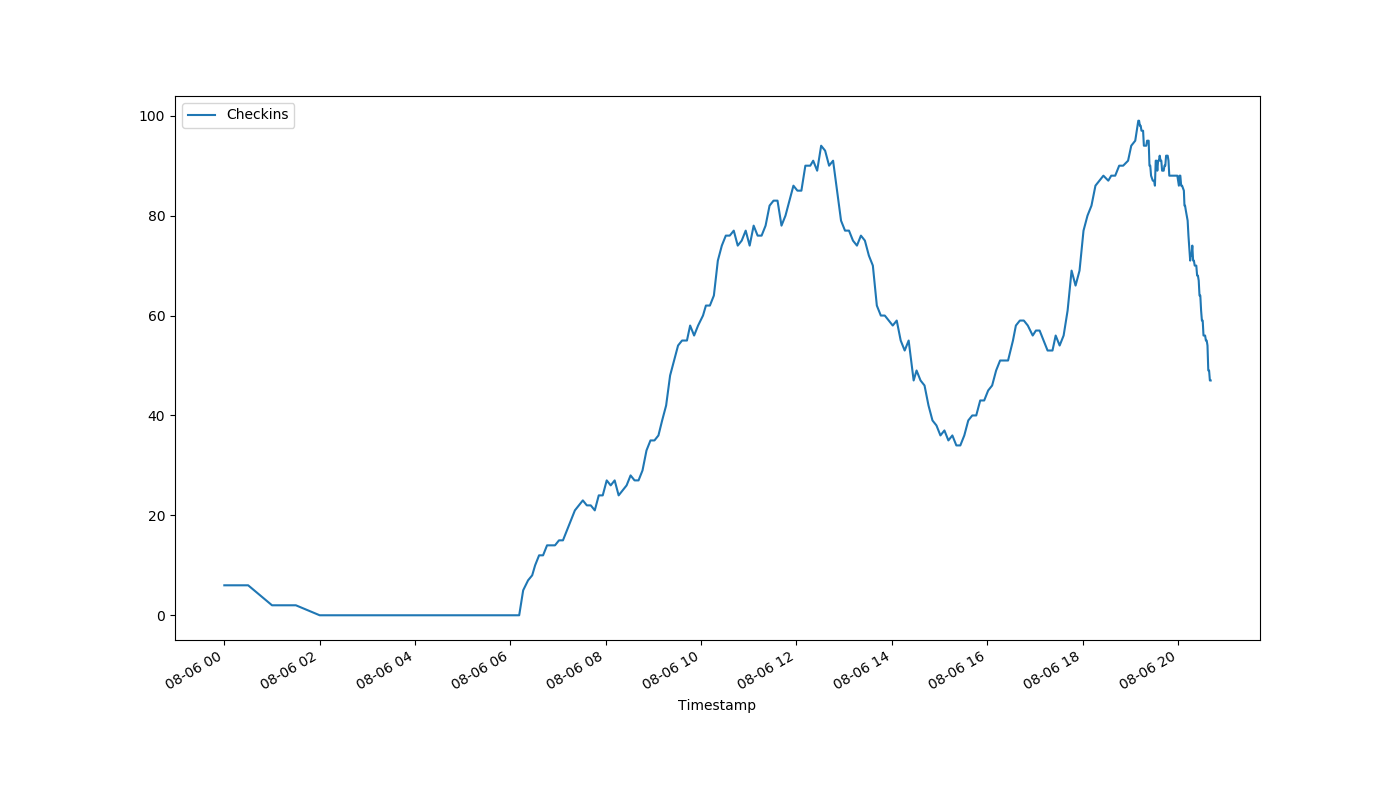
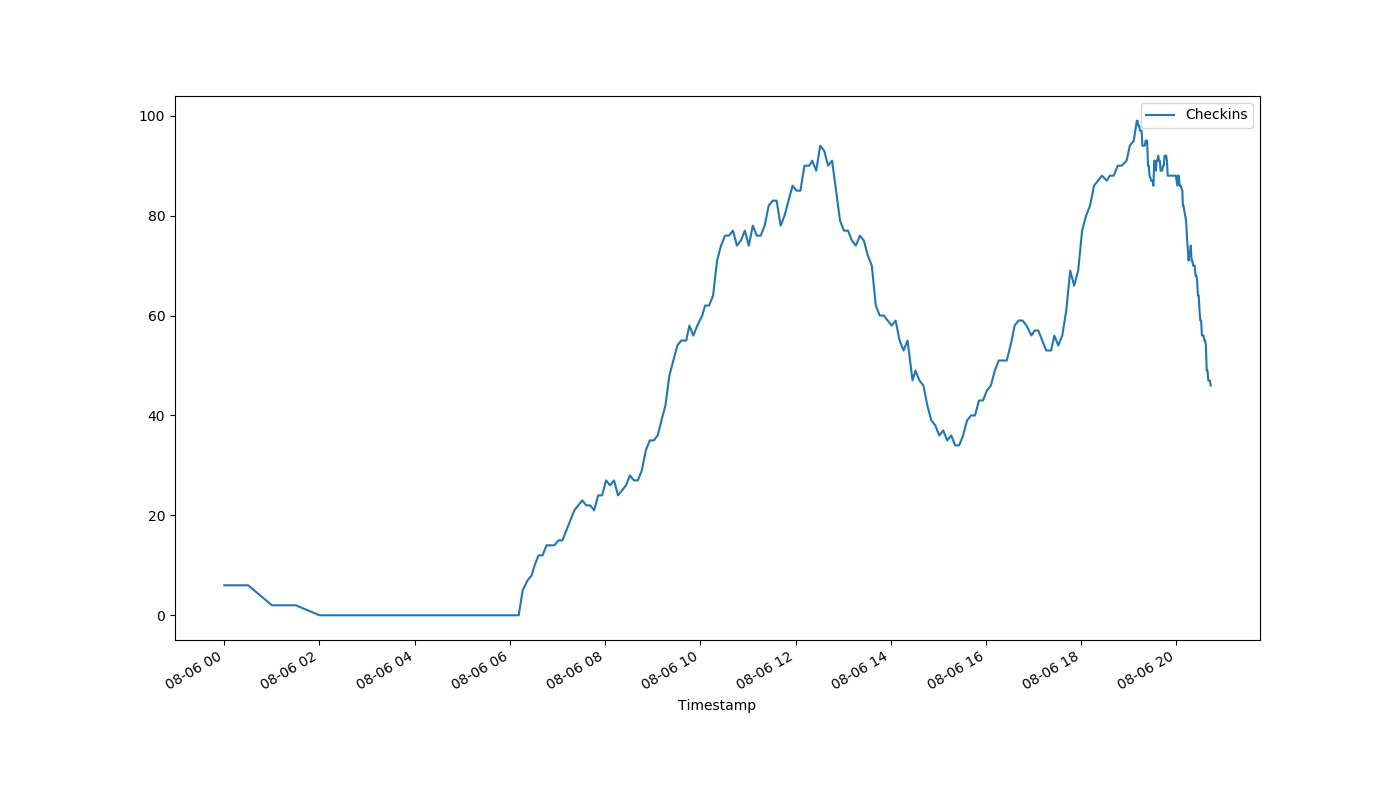
auto-Aug-06-20:43:48

diff --git a/index.html b/index.html
@@ -1,1 +1,1 @@
-<!DOCTYPE html><html><head><meta http-equiv="refresh" content="15"><link rel='stylesheet' href='holmcurrent.css'></head><body><p id='count'>47</p><div id='graph-wrap'><img id='graph' src='holmgraph-Aug-06.png'></div><p id='updated'>Last updated 20:41:18 / 20:41:15</p></body></html>
+<!DOCTYPE html><html><head><meta http-equiv="refresh" content="15"><link rel='stylesheet' href='holmcurrent.css'></head><body><p id='count'>46</p><div id='graph-wrap'><img id='graph' src='holmgraph-Aug-06.png'></div><p id='updated'>Last updated 20:43:18 / 20:43:16</p></body></html>
